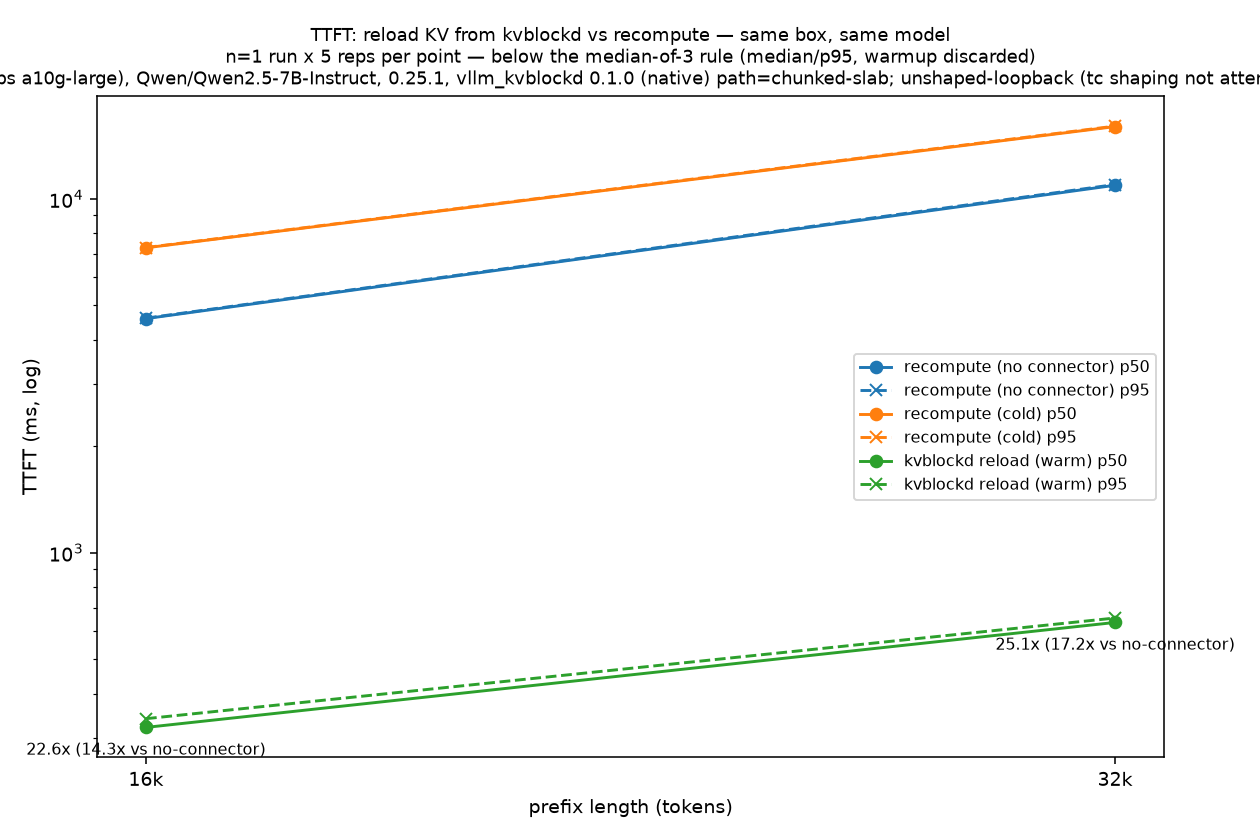
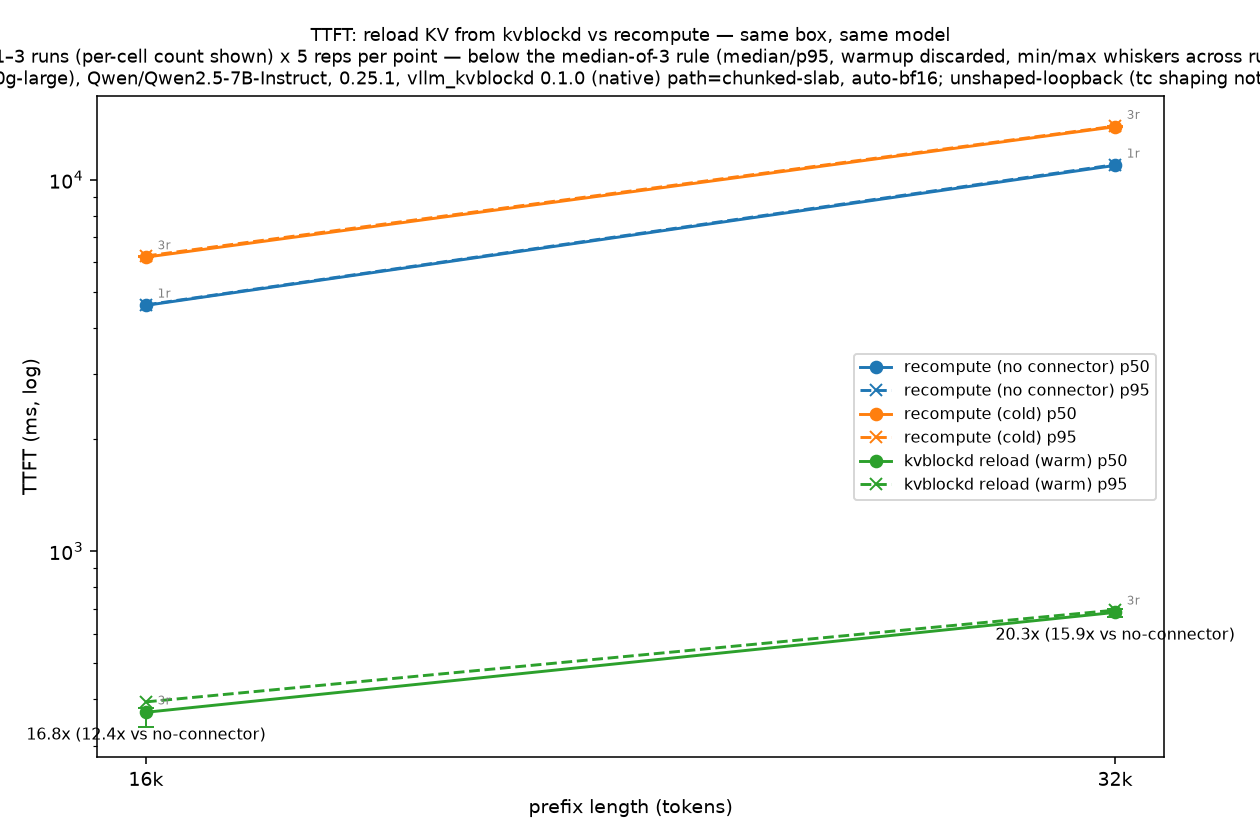
bench: n=3 tables — write-behind lands, every movement stated plainly
Three independent engine-boot runs per config (the median-of-3 rule the
methodology always demanded), whisker charts, aggregate JSONL with per-run
values committed. What moved and why, in the table's own words:

- cold-with-connector dropped ~18% at every length (write-behind took the
  TCP put off the miss path): store overhead 1.77-1.90x -> 1.45-1.51x.
  The residual is per-layer host staging — the next pre-registered lever.
- warm is 5-8% slower than the pre-wave single runs (per-recv deadline
  enforcement + the drain thread's presence); profiling ledgered, and the
  overlap wave targets a floor below both numbers.
- Qwen warm@16k spread is 11.8%, above the 10% target: the cell is
  published as a range with worst-case ratios computed from the slow end,
  and the aggregate gate output is committed showing the flag.

Headline at n=3: Llama 8.4x vs pure at 16k; Qwen 12.4x @16k, 15.9x @32k
(15.7x worst-case). Every warm rep across all six runs passed the
exact-count hit gate; every record is path-stamped.

diff --git a/docs/BENCHMARKS.md b/docs/BENCHMARKS.md
@@ -111,12 +111,27 @@ the table is labeled single-run rather than silently treated as final.
      measured spread% here. The same marker covers the Qwen long-context
      table below (its "single-run disclosures apply as above" line). -->
 
-| prefix | recompute (no connector) | recompute, connector on¹ | **kvblockd reload** | vs pure | vs serving¹ |
+**n=3 independent runs** (each its own engine boots; median across runs, per-run
+values and min/max in the aggregate JSONL; worst p50 spread 5.3%). The cold
+arm runs the connector's **write-behind** store path (0.2.x): misses stage a
+copy in-band and the TCP put happens off the critical path.
+
+| prefix | recompute (no connector)² | recompute, connector on¹ | **kvblockd reload** | vs pure | vs serving¹ |
 |---|---|---|---|---|---|
-| 1k  | 269 ms  | 506 ms  | **76 ms**  | **3.5×** | 6.6× |
-| 4k  | 1070 ms | 2035 ms | **174 ms** | **6.2×** | 11.7× |
-| 8k  | 2212 ms | 4147 ms | **302 ms** | **7.3×** | 13.7× |
-| 16k | 5045 ms | 8925 ms | **552 ms** | **9.1×** | 16.2× |
+| 1k  | 269 ms  | 407 ms  | **80 ms**  | **3.4×** | 5.1× |
+| 4k  | 1070 ms | 1614 ms | **181 ms** | **5.9×** | 8.9× |
+| 8k  | 2212 ms | 3341 ms | **325 ms** | **6.8×** | 10.3× |
+| 16k | 5045 ms | 7305 ms | **599 ms** | **8.4×** | 12.2× |
+
+² baseline is n=1 (its measured rep spread is <1%; an n=3 baseline rides the
+next paid session). Movements vs the earlier single-run table, stated
+plainly: the cold arm dropped ~18% (write-behind landed — store-on-miss
+overhead is now 1.45–1.51× vs 1.77–1.90×, with the residual attributed to
+per-layer host staging copies, the next pre-registered lever), and the warm
+arm is ~5–8% slower than the pre-wave single run (588–619 vs 552 at 16k —
+the wave added per-recv deadline enforcement and a store drain thread;
+profiling this regression is on the ledger, and the overlap pipeline wave
+targets a floor well below either number).
 
 The warm column improved 3.6–4.8× between run 4 and run 5 by rebuilding the
 connector's load path (pinned staging, chunked DMA, sharded drain — commit
@@ -167,10 +182,19 @@ blocks per rep @16k, 1999–2000 per rep @32k (per-prompt calibration lands
 within a token, so reps differ by one block; the gate is exact against each
 rep's own measured count) — and every record is path-stamped `chunked-slab`.
 
-| prefix | recompute (no connector) | recompute, connector on¹ | **kvblockd reload** | vs pure | vs serving¹ |
+**n=3 independent runs**, write-behind cold arm, same protocol as above:
+
+| prefix | recompute (no connector)² | recompute, connector on¹ | **kvblockd reload** | vs pure | vs serving¹ |
 |---|---|---|---|---|---|
-| 16k | 4,588 ms | 7,271 ms | **321 ms** | **14.3×** | 22.6× |
-| 32k | 10,923 ms | 15,998 ms | **636 ms** | **17.2×** | 25.1× |
+| 16k | 4,588 ms | 6,187 ms | **369 ms** (336–379) | **12.4×** | 16.8× |
+| 32k | 10,923 ms | 13,878 ms | **685 ms** (667–697) | **15.9×** | 20.3× |
+
+The warm@16k cell's cross-run spread is **11.8% — above our 10% target**
+and flagged by the aggregate gate; the full range is printed rather than
+the median alone, and the conservative end of every ratio uses the slow
+end of the range (10,923/697 = 15.7× worst-case at 32k; 4,588/379 = 12.1×
+at 16k). Earlier single-run cells (321/636 ms, 17.2×/25.1×) predate the
+write-behind wave and are superseded by this table.
 
 Why the multiple grows vs the Llama table above: the speedup is
 `prefill(L) / reload(L)` — prefill grows superlinearly with context while
